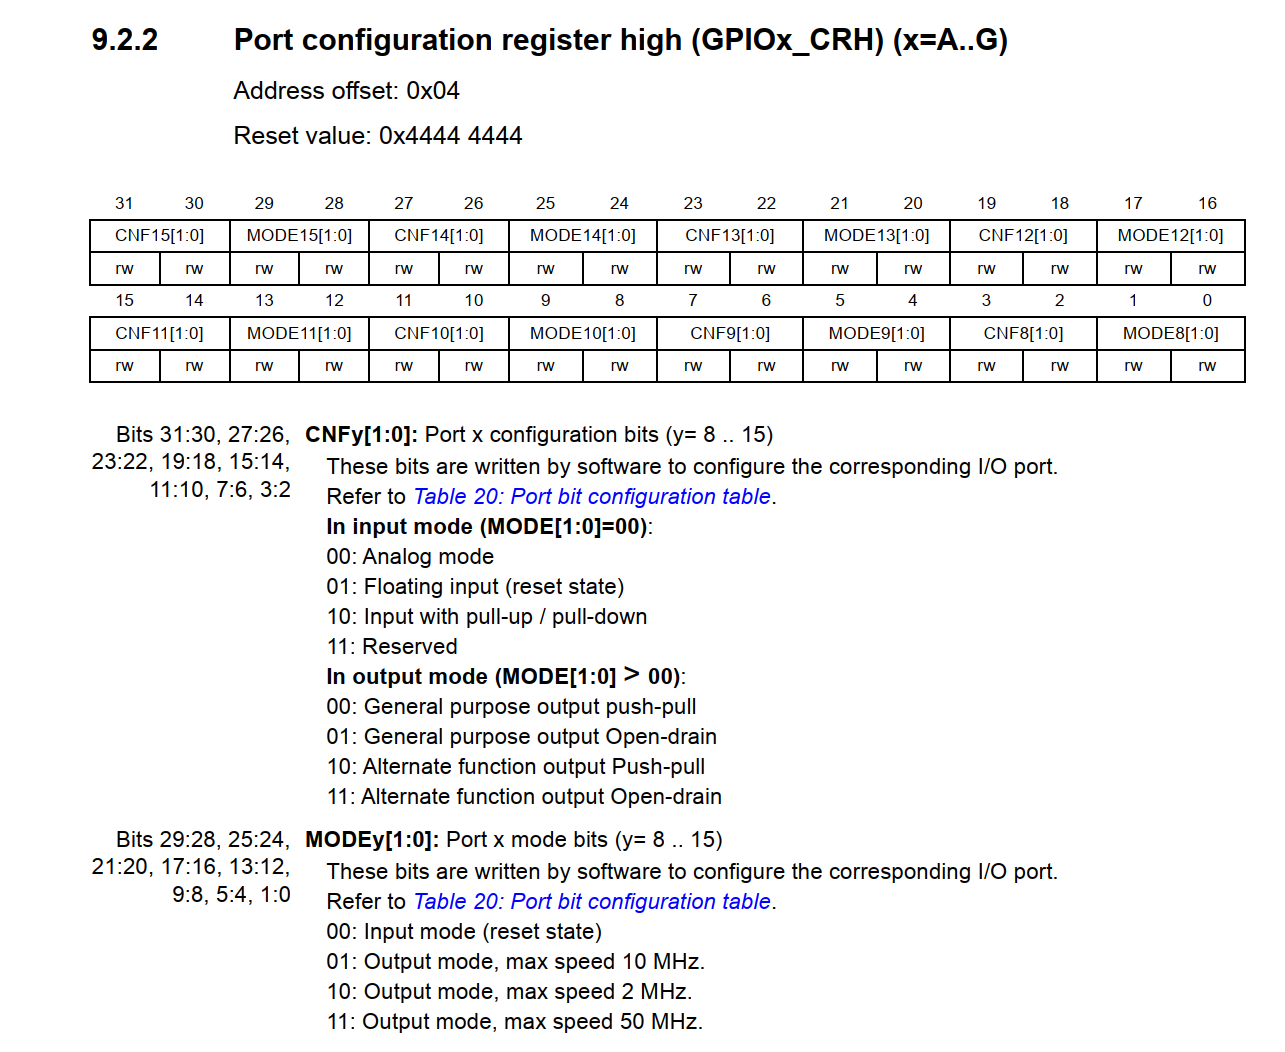
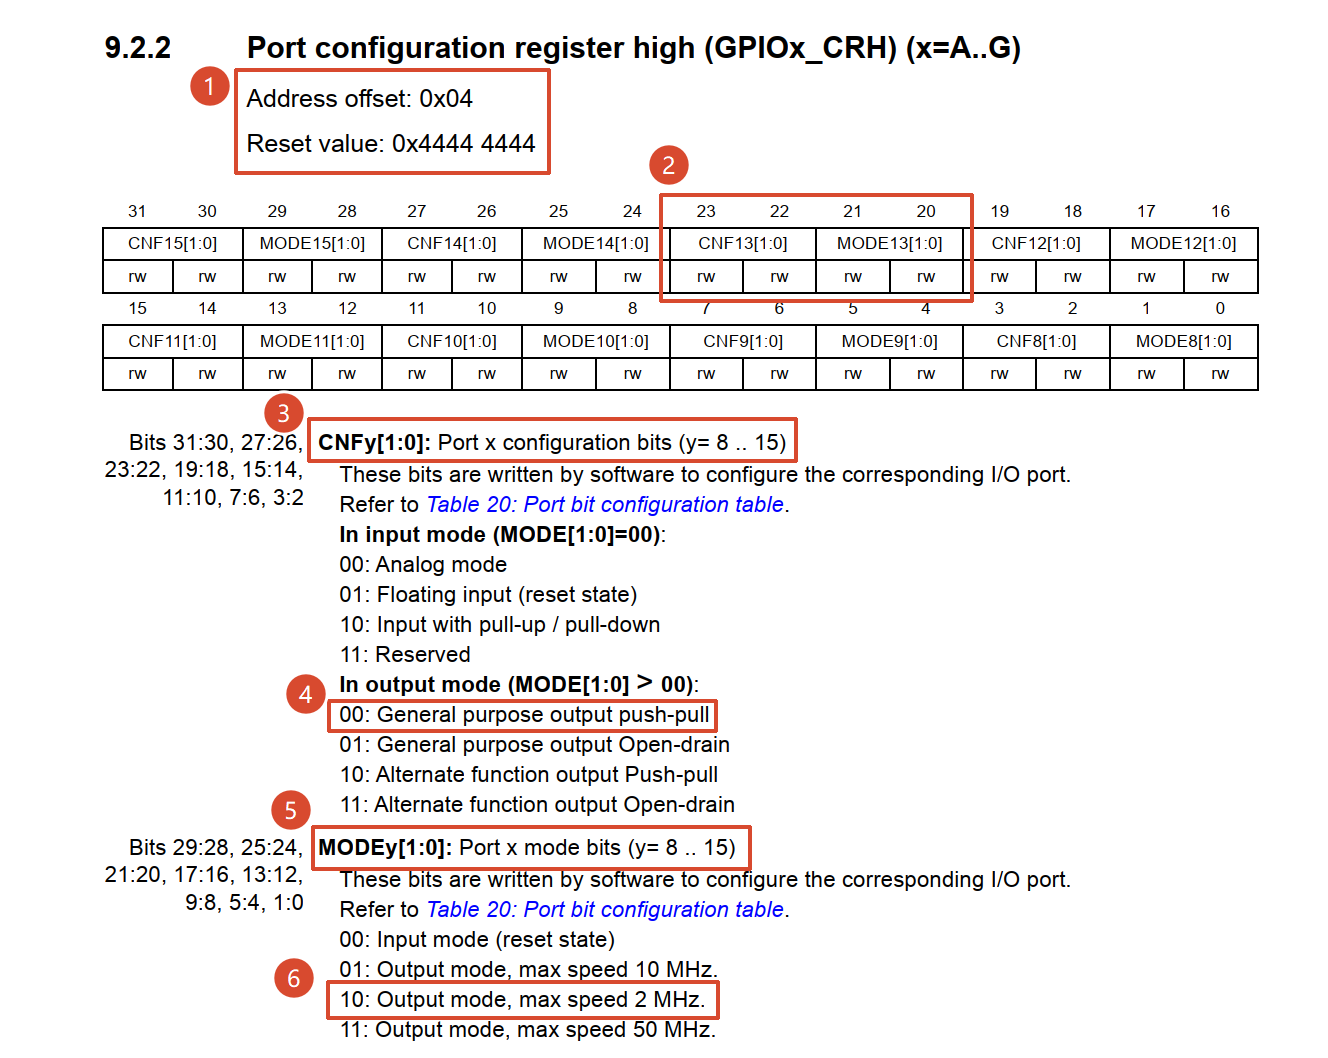
自动提交，未输入备注

Changed region(s): [[0.0623, 0.0304, 0.965, 1.0], [0.0623, 0.0304, 0.1245, 0.0608]]

diff --git a/电路组学习目录/5 简单数电＆STM32硬件结构.md b/电路组学习目录/5 简单数电＆STM32硬件结构.md
@@ -697,8 +697,10 @@ modify access.
 上面写我们的GPIOC的地址范围是0x4001 1000 ~ 0x4001 13FF，那么他的基地址就是0x4001 1000。
 - 我们在“9.2 GPIO registers”章节可以查询每一个寄存器的偏移地址和具体内容，首先是配置寄存器GPIOx_CRL和GPIOx_CRH，我们要配置的是PC13引脚，第十三号引脚是由高位寄存器GPIOx_CRH控制的，所以不用管GPIOx_CRL了，只看GPIOx_CRH，查询到如下图
 ![图5-9-8 GPIOx_CRH](pictures/5-9-8.png)
-Address offset 即为偏移地址，这个寄存器的偏移地址是0x04，加上我们之前找到的GPIOC的基地址0x4001 1000，得到GPIOC的GPIOx_CRH寄存器实际地址是0x4001 1004。\
-Reset value 指单片机每次重启时这个寄存器的默认值，如果我们的代码没有对这个寄存器进行任何修改，那么这个寄存器中的值就是Reset value，这里写的Reset value值是0x4444 4444。
+图中最上面Address offset 即为偏移地址，这个寄存器的偏移地址是0x04，加上我们之前找到的GPIOC的基地址0x4001 1000，得到GPIOC的GPIOx_CRH寄存器实际地址是0x4001 1004。\
+图中第二行Reset value 指单片机每次重启时这个寄存器的默认值，如果我们的代码没有对这个寄存器进行任何修改，那么这个寄存器中的值就是Reset value，这里写的Reset value值是0x4444 4444。\
+图中上面的表格是这个寄存器的32位每一位代表的意义，下面的文本是他们的解释。CNFy控制第y号引脚的工作模式，我们想配置13号引脚为推挽输出，下文写“00: General purpose output push-pull”，所以要配置CNF13为00。\
+图中MODEy
 #### 使用HAL库开发
 
 
